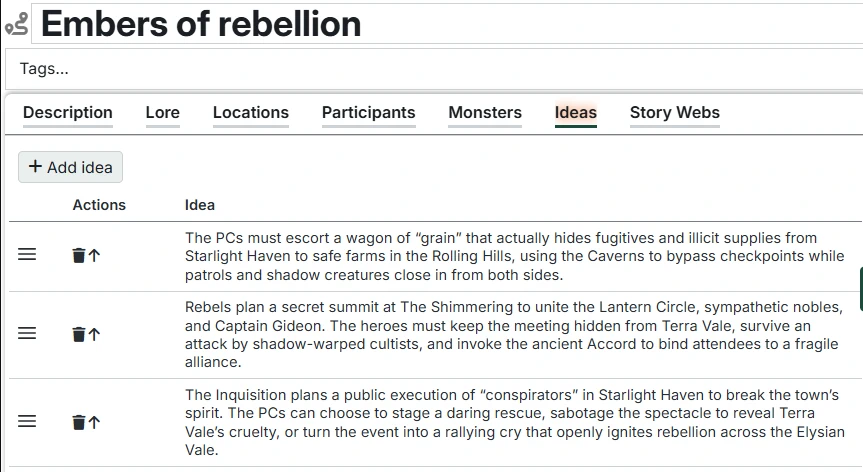
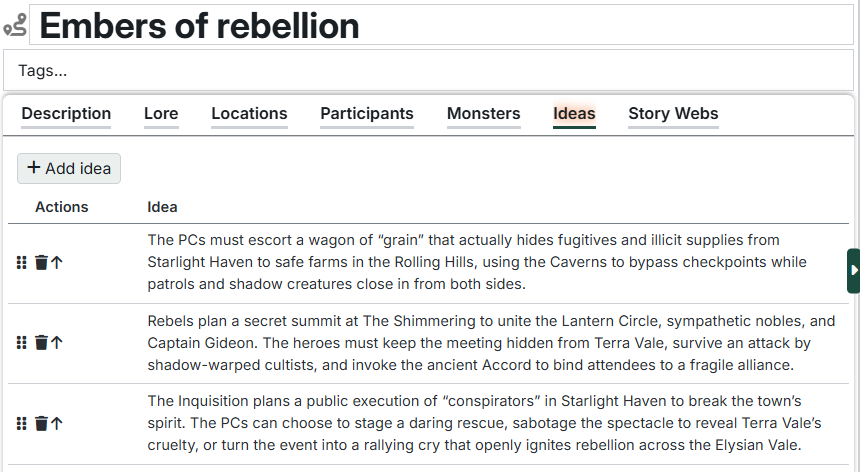
doc updates

diff --git a/src/components/applications/CustomFieldsDialog.vue b/src/components/applications/CustomFieldsDialog.vue
@@ -21,10 +21,10 @@
         </div>
       </div>
       
-          <nav class="fcb-sheet-navigation flexrow tabs" data-group="custom-fields-dialog">
-            <a class="item" data-tab="fields">{{ localize('applications.customFields.tabs.fields') }}</a>
-            <a v-if="backendAvailable" class="item" data-tab="images">{{ localize('applications.customFields.tabs.images') }}</a>
-          </nav>
+      <nav class="fcb-sheet-navigation flexrow tabs" data-group="custom-fields-dialog">
+        <a class="item" data-tab="fields">{{ localize('applications.customFields.tabs.fields') }}</a>
+        <a v-if="backendAvailable" class="item" data-tab="images">{{ localize('applications.customFields.tabs.images') }}</a>
+      </nav>
     </template>
 
     <template #scrollSection>
@@ -69,7 +69,11 @@
               {{ localize('labels.noResults') }}
             </template>
 
-            <Column :rowReorder="true" headerStyle="width: 3rem" :reorderableColumn="false" />
+            <Column :rowReorder="true" headerStyle="width: 3rem" :reorderableColumn="false">
+              <template #rowreordericon>
+                <i class="fas fa-grip-vertical"></i>
+              </template>
+            </Column>
 
             <Column field="actions" :header="localize('labels.tableHeaders.actions')" style="width: 4rem">
               <template #body="{ data }">

diff --git a/src/components/applications/StoryWebSettingsDialog.vue b/src/components/applications/StoryWebSettingsDialog.vue
@@ -237,7 +237,12 @@ Dependencies
               {{ localize('labels.noResults') }}
             </template>
 
-            <Column rowReorder style="width: 3rem" />
+            <Column :rowReorder="true" headerStyle="width: 3rem" :reorderableColumn="false">
+              <template #rowreordericon>
+                <i class="fas fa-grip-vertical"></i>
+              </template>
+            </Column>
+
 
             <Column field="actions" :header="localize('labels.tableHeaders.actions')" style="width: 100px">
               <template #body="{ data }">

diff --git a/src/types/customFields.ts b/src/types/customFields.ts
@@ -30,7 +30,7 @@ export interface CustomFieldDescription {
   aiEnabled?: boolean;
   aiPromptTemplate?: string;
   deleted?: boolean;
-  indexed?: boolean;
+  indexed?: boolean;   // indexed for search
   sortOrder: number;   // order of display on description tab
   configuration?: {
     minWords: number;

diff --git a/docs/guide/index.md b/docs/guide/index.md
@@ -26,8 +26,11 @@ The module is designed to support the full cycle preparation and playing your ga
 
 4. [**Record the results.**](./record-results/) Capture the things that did (or didn't) happen - fleshing out the world for easy reference in the future and giving you a head-start on the next session prep.  
 
-## Note on Characters, Actors, and PCs
-- [^Characters] can be PCs if you'd like, but they're really intended primarily to represent all the NPCs in your [^Setting].  
+## Note on Nomenclature
+- A [^Setting] represents the world that your adventures take place in. Everything else in Campaign Builder exists within a Setting and you cannot reference anything across Settings.
+- A [^Campaign] is a series of [^Sessions] played by the same group of players within a Setting (i.e. Joe, Juan, and Mary play Friday nights).  You might have multiple Campaigns taking place within the same Setting.
+- A Session is a single play event - you sit down in Foundry for 3 hours and play.
+- [^Characters] are intended to represent all the NPCs in your [^Setting].  
   - Characters can be tied to multiple Actors (ex. if you want to represent a young version and an old version or track the human form of a werewolf separately from the wolf form, etc.) though typically it would be 1:1.
-- [^PCs] (in [^Campaigns]/[^Sessions]) represent the PCs (and to a lesser extent, the players).  They are not tied to world Characters, because I didn't see much value in doing so.  The PCs are where you track storylines, related NPCs and organizations, etc. This makes them easier to find and review when preparing and running the game.
+- [^PCs] (in Campaigns/Sessions) represent the PCs (and to a lesser extent, the players).  They are not tied to world Characters, because I didn't see much value in doing so.  The PCs are where you track storylines, related NPCs and organizations, etc. This makes them easier to find and review when preparing and running the game.
   - PCs are explicitly tied to a single Foundry actor.
